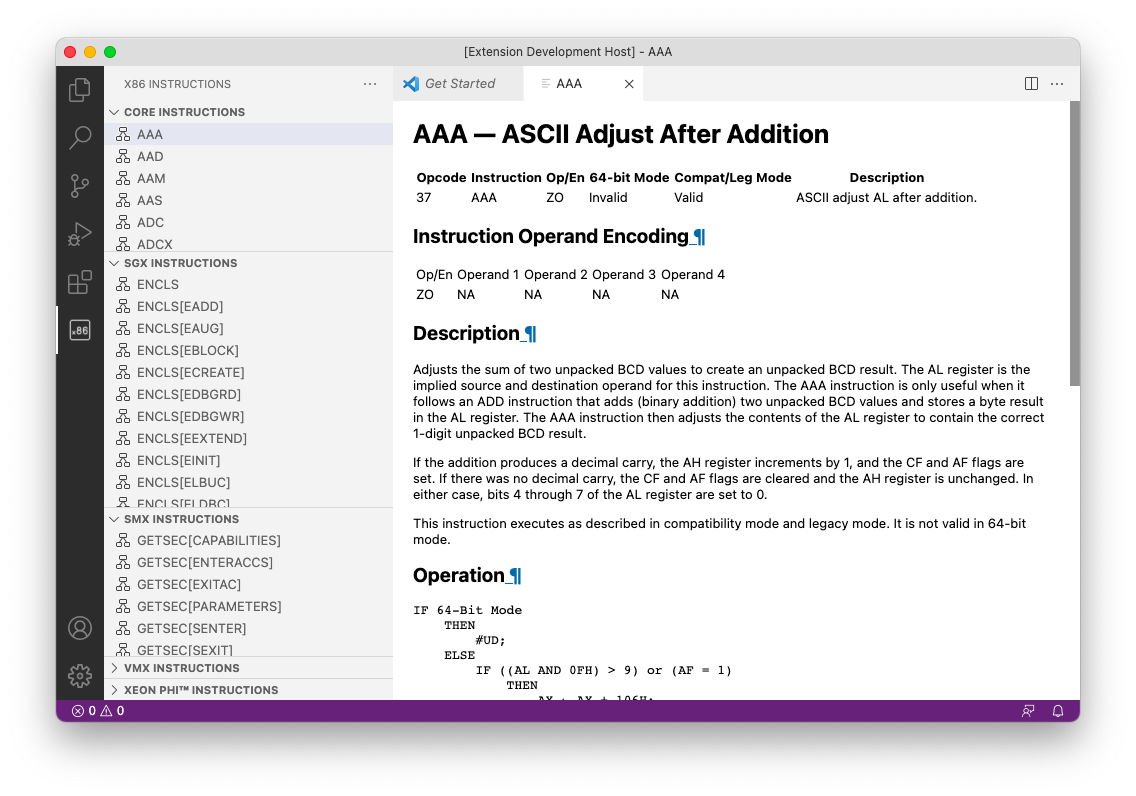
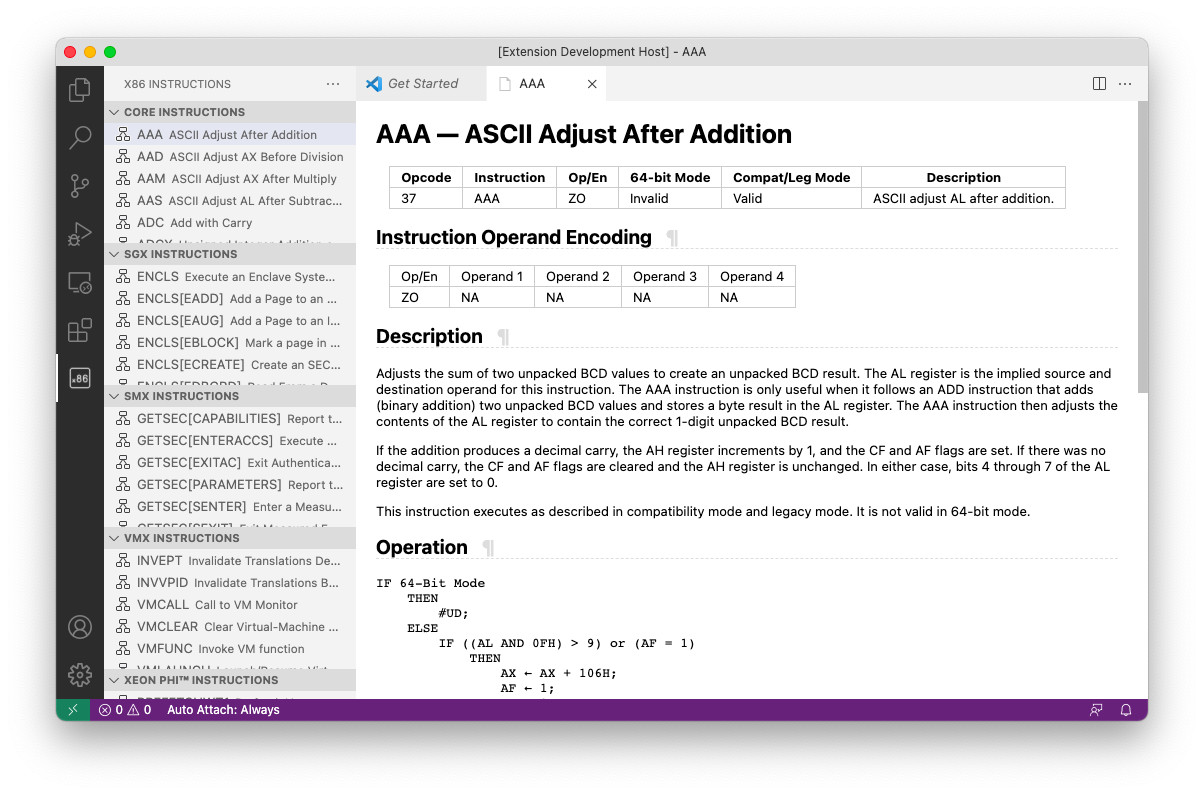
stylesheet 0.4.2

diff --git a/x86/style.css b/x86/style.css
@@ -1,0 +1,89 @@
+html, body {
+	padding-top: 0;
+	margin-top: 0;
+}
+
+table, th, td {
+	border-collapse: collapse;
+	border: 1px #ccc solid;
+}
+
+table {
+	margin: 10pt;
+}
+
+th, td {
+	padding: 2pt 8pt;
+}
+
+h2, h3, h4, h5, h6 {
+    border-bottom: 1px #ddd dashed;
+}
+
+header {
+	border-bottom: 1px #ddd dashed;
+	font-size: 8pt;
+}
+
+footer {
+	border-top: 1px #ddd dashed;
+	font-size: 8pt;
+}
+
+svg {
+	display: block;
+}
+
+figure {
+	margin: 1em;
+}
+
+blockquote {
+	padding: 1em;
+	margin: 0 1em;
+	background-color: rgba(0%, 0%, 0%, 0.05);
+	font-size: 10pt;
+}
+
+blockquote > p {
+	margin: 0;
+}
+
+blockquote > p + p {
+	margin-top: 1em;
+}
+
+nav > ul {
+	list-style-type: none;
+	font-size: 9pt;
+	padding: 0;
+	margin: 0.5em 0 0.2em 0;
+}
+
+nav > ul > li {
+	margin: 0;
+	width: 50%;
+	display: inline-block;
+}
+
+nav > ul > li:nth-child(2) {
+	text-align: right;
+}
+
+.anchor {
+	margin-left: 0.5em;
+	text-decoration: none;
+	color: #ddd;
+}
+
+.anchor:hover {
+	color: #00b;
+}
+
+.exceptions + table td {
+	vertical-align: top;
+}
+
+.not-imported {
+	color: #900;
+}

diff --git a/x86/style_hacked.css b/x86/style_hacked.css
@@ -1,0 +1,89 @@
+html, body {
+	padding-top: 0;
+	margin-top: 0;
+}
+
+table, th, td {
+	border-collapse: collapse;
+	border: 1px #ccc solid;
+}
+
+table {
+	margin: 10pt;
+}
+
+th, td {
+	padding: 2pt 8pt;
+}
+
+h2, h3, h4, h5, h6 {
+    border-bottom: 1px #ddd dashed;
+}
+
+header {
+	border-bottom: 1px #ddd dashed;
+	font-size: 8pt;
+}
+
+footer {
+	border-top: 1px #ddd dashed;
+	font-size: 8pt;
+}
+
+svg {
+	display: block;
+}
+
+figure {
+	margin: 1em;
+}
+
+blockquote {
+	padding: 1em;
+	margin: 0 1em;
+	background-color: rgba(0%, 0%, 0%, 0.05);
+	font-size: 10pt;
+}
+
+blockquote > p {
+	margin: 0;
+}
+
+blockquote > p + p {
+	margin-top: 1em;
+}
+
+nav > ul {
+	list-style-type: none;
+	font-size: 9pt;
+	padding: 0;
+	margin: 0.5em 0 0.2em 0;
+}
+
+nav > ul > li {
+	margin: 0;
+	width: 50%;
+	display: inline-block;
+}
+
+nav > ul > li:nth-child(2) {
+	text-align: right;
+}
+
+.anchor {
+	margin-left: 0.5em;
+	text-decoration: none;
+	color: #ddd;
+}
+
+.anchor:hover {
+	color: #00b;
+}
+
+.exceptions + table td {
+	vertical-align: top;
+}
+
+.not-imported {
+	color: #900;
+}

diff --git a/src/extension.ts b/src/extension.ts
@@ -126,6 +126,14 @@ function viewInstruction(moduleName, moduleLink)
 				{}
 			);
 
+			// TODO: load stylesheet
+			const onDiskPath = vscode.Uri.file(myExtDir + '/x86/style_hacked.css')
+			const styleSrc = panel.webview.asWebviewUri(onDiskPath)
+			console.log(styleSrc)
+			// style.css
+			body = body.replace('style.css', styleSrc.toString());
+			console.log(body)				
+
 			// And set its HTML content
 			panel.webview.html = body;
 
